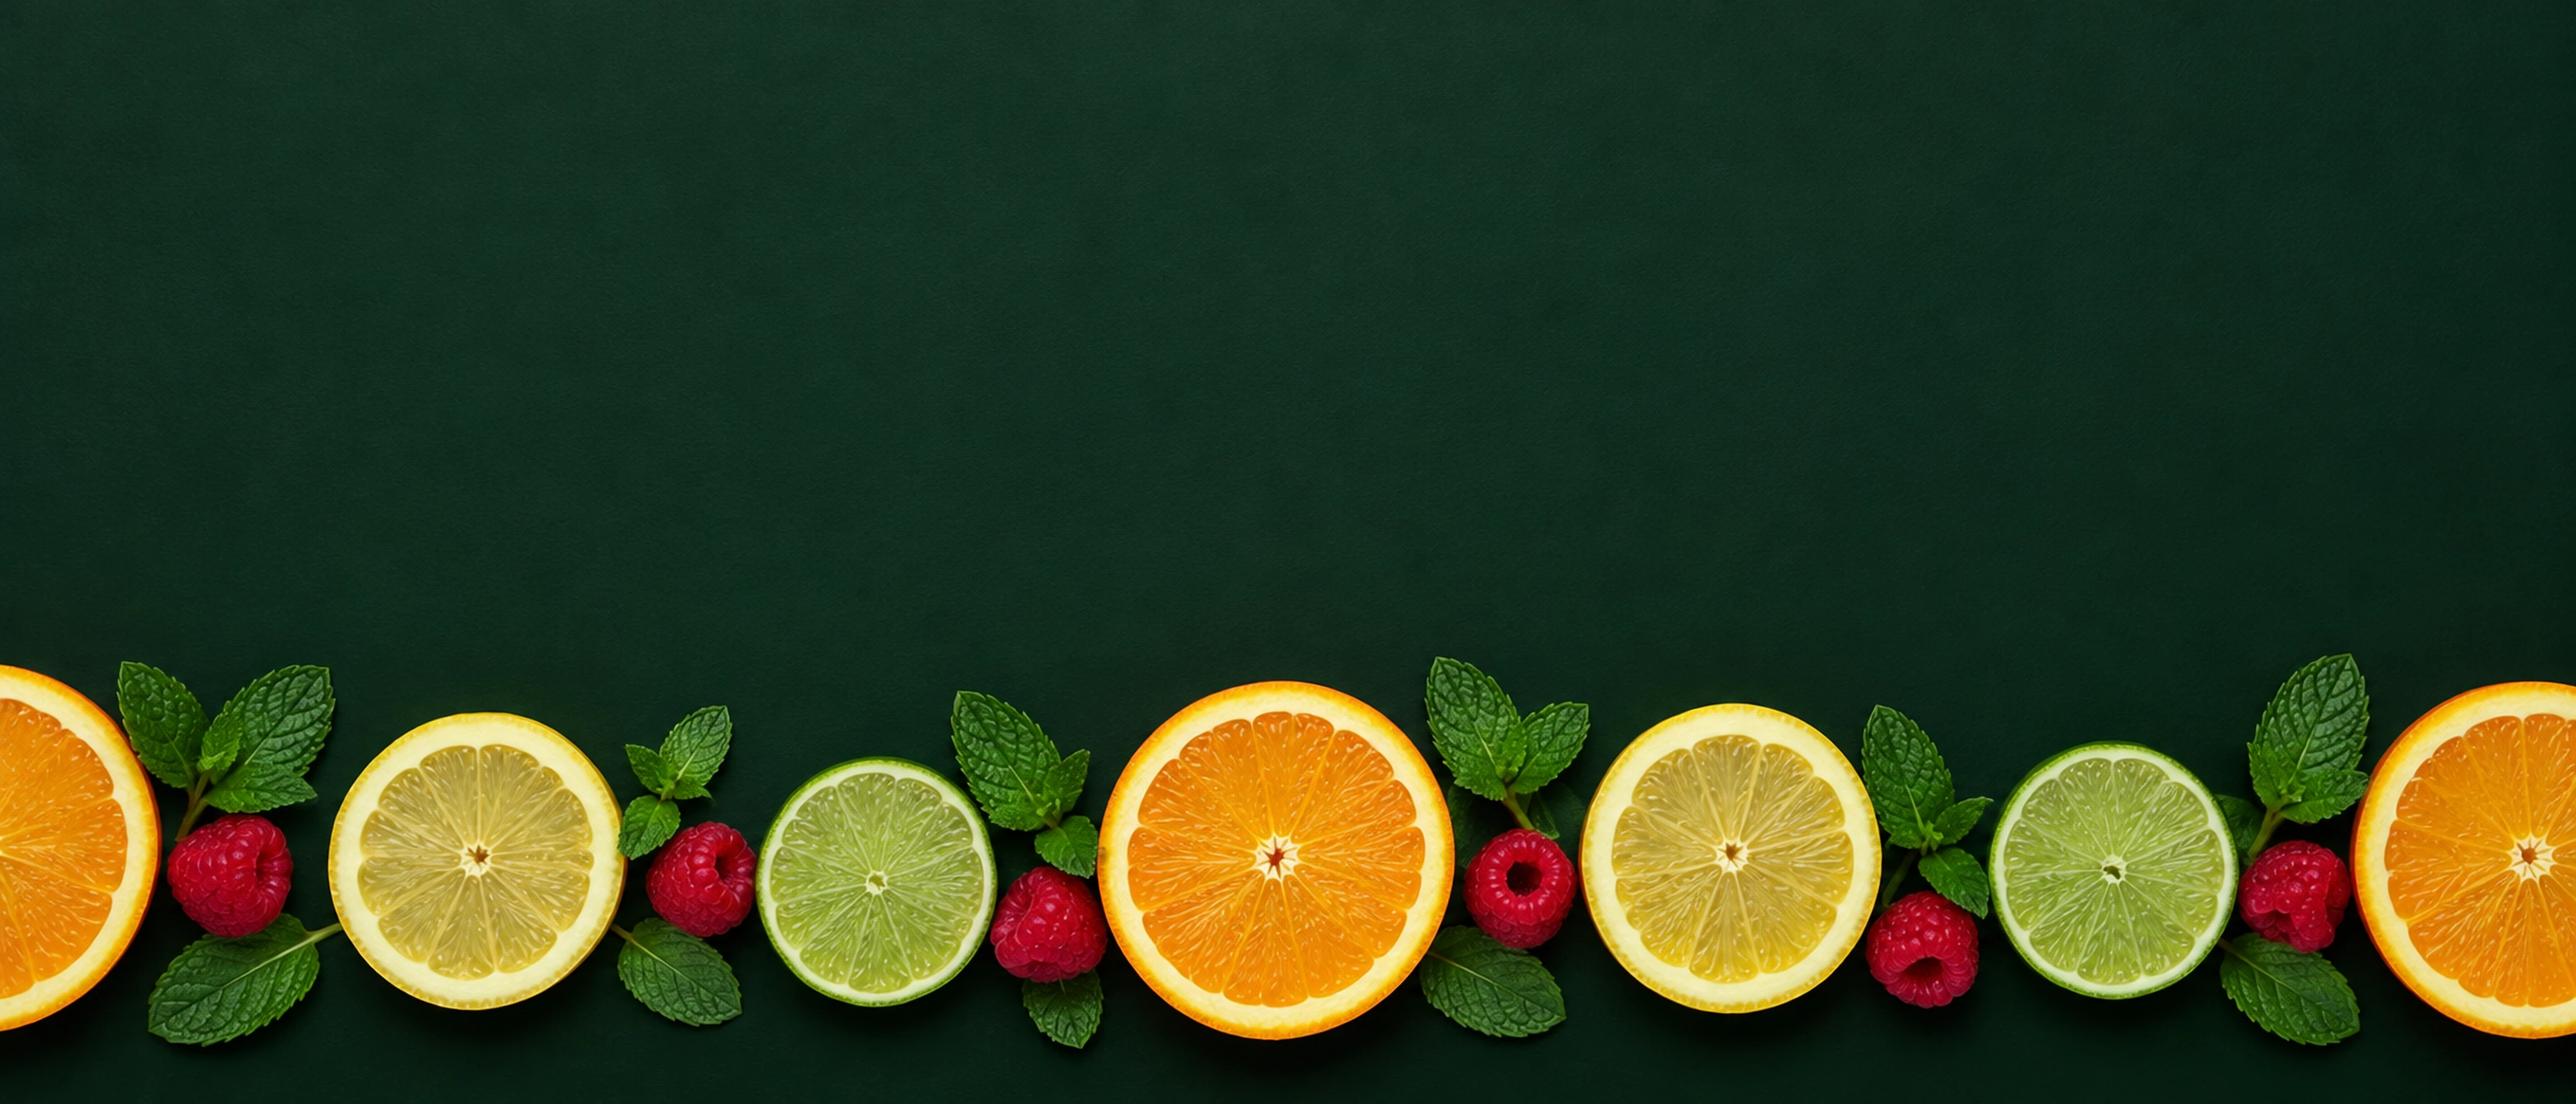
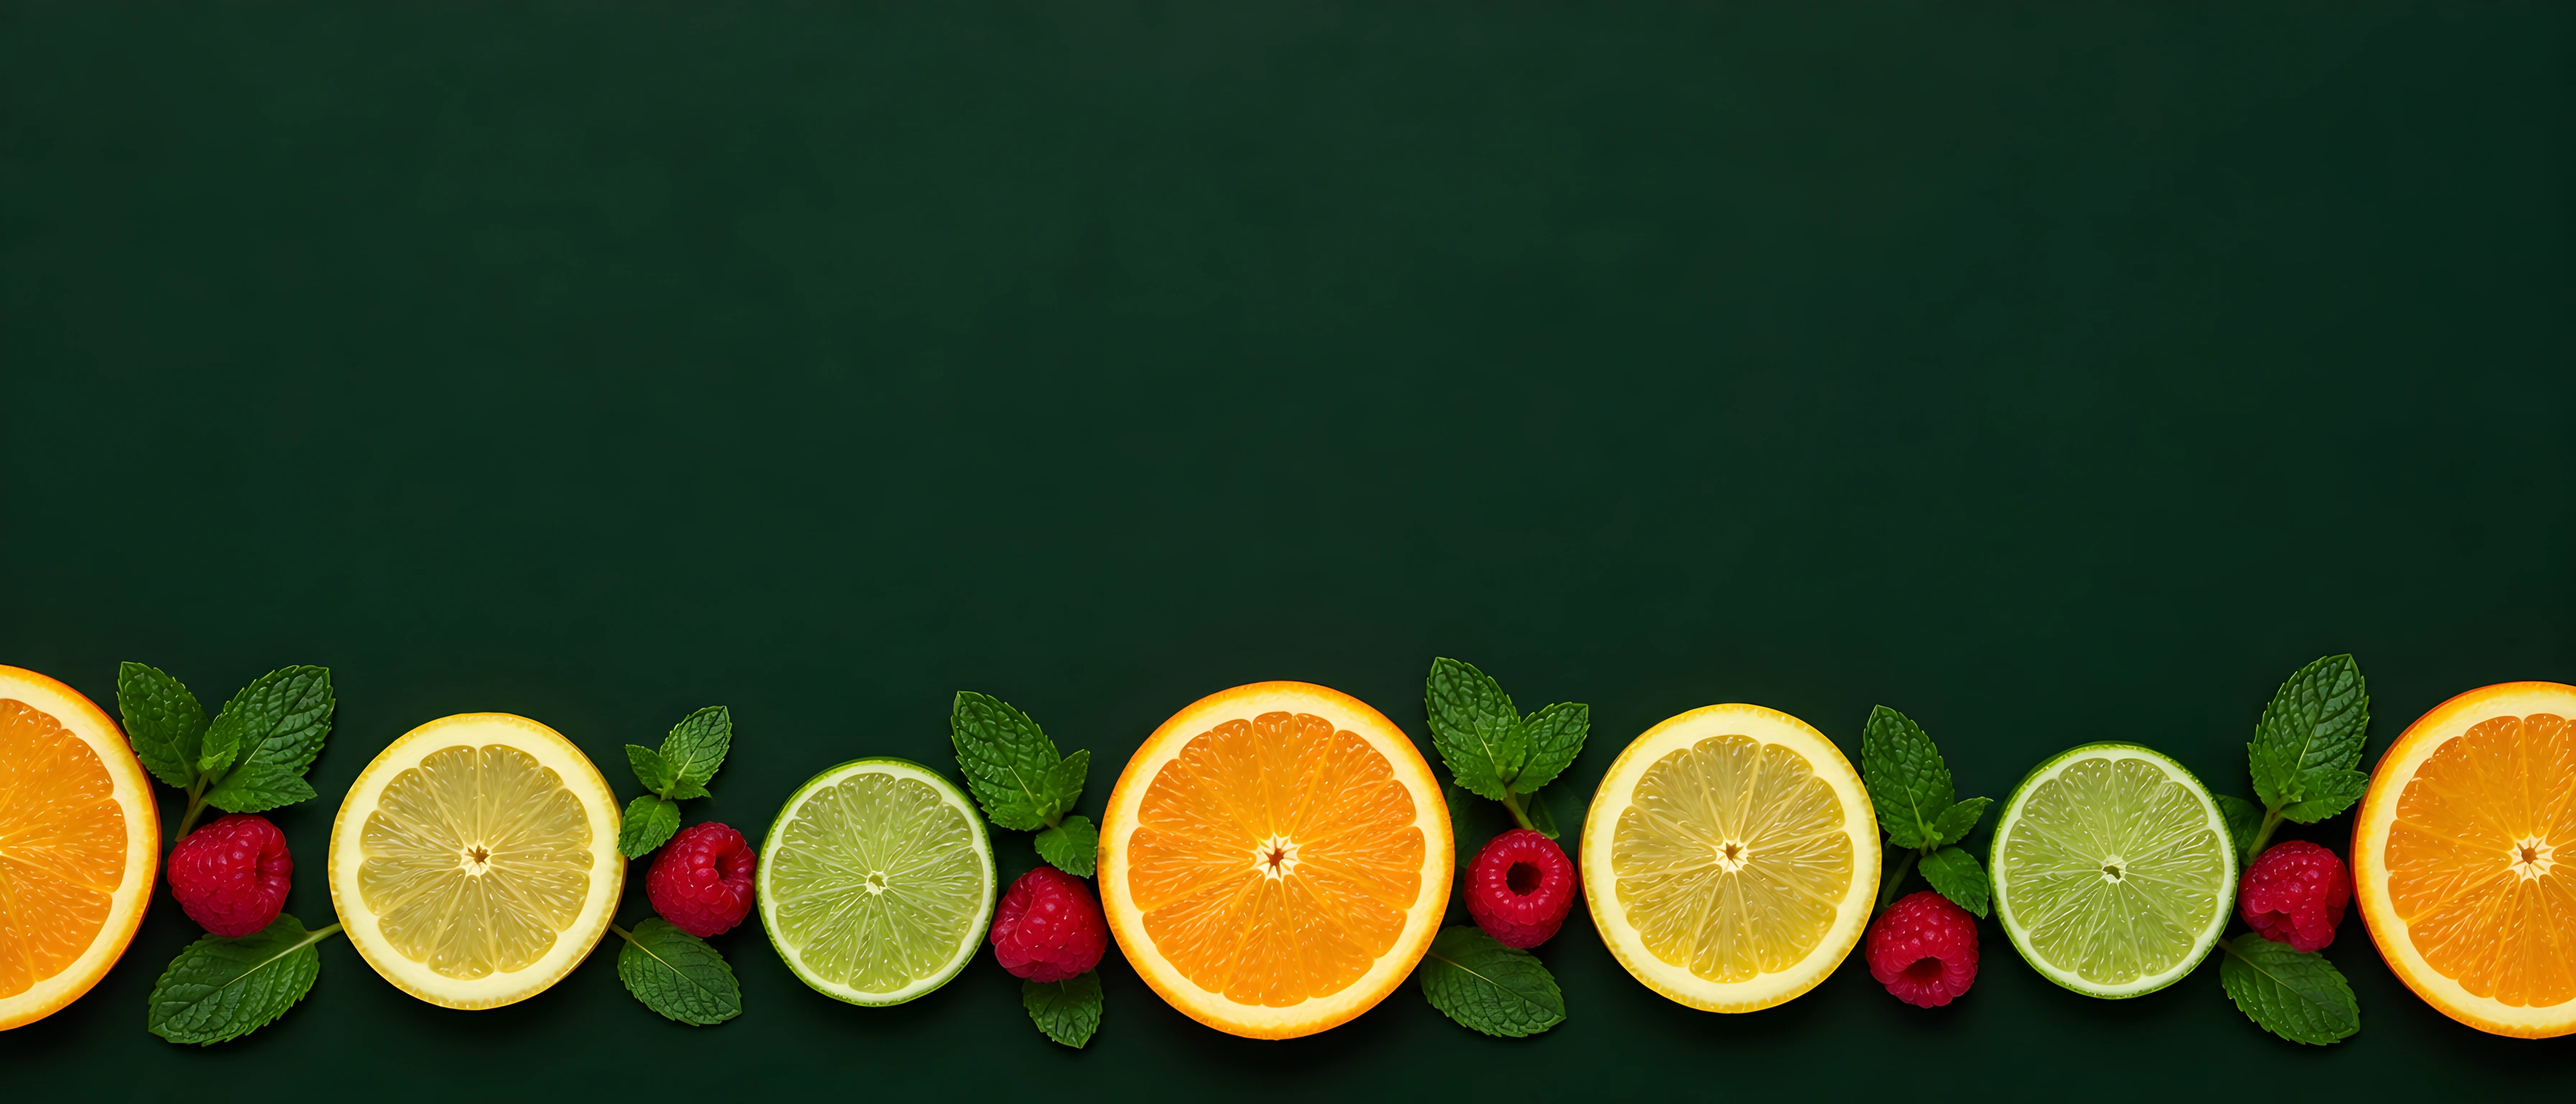
Upscale the hero and closing photos with Real-ESRGAN
Claude-Session: https://claude.ai/code/session_011SED4jfnxD9aBbzoJdwWFL

diff --git a/src/app/(inicio)/page.tsx b/src/app/(inicio)/page.tsx
@@ -118,7 +118,7 @@ export default function Home() {
           alt=""
           fill
           priority
-          quality={90}
+          quality={95}
           sizes="100vw"
           className="-z-10 object-cover object-[78%_center] lg:object-right"
         />
@@ -274,7 +274,7 @@ export default function Home() {
             src="/landing/cta-citricos.webp"
             alt=""
             fill
-            quality={90}
+            quality={95}
             sizes="100vw"
             className="-z-10 object-cover object-bottom"
           />

diff --git a/next.config.ts b/next.config.ts
@@ -9,8 +9,8 @@ const nextConfig: NextConfig = {
   // for any host other than localhost and the page never becomes interactive.
   // Development only: it has no effect in production.
   allowedDevOrigins: ["192.168.*.*"],
-  // The home page photos use 90 for sharper fruit; everything else keeps 75.
-  images: { qualities: [75, 90] },
+  // The home page photos use 90-95 for sharper fruit; everything else keeps 75.
+  images: { qualities: [75, 90, 95] },
   turbopack: {
     rules: {
       "*.css": {
